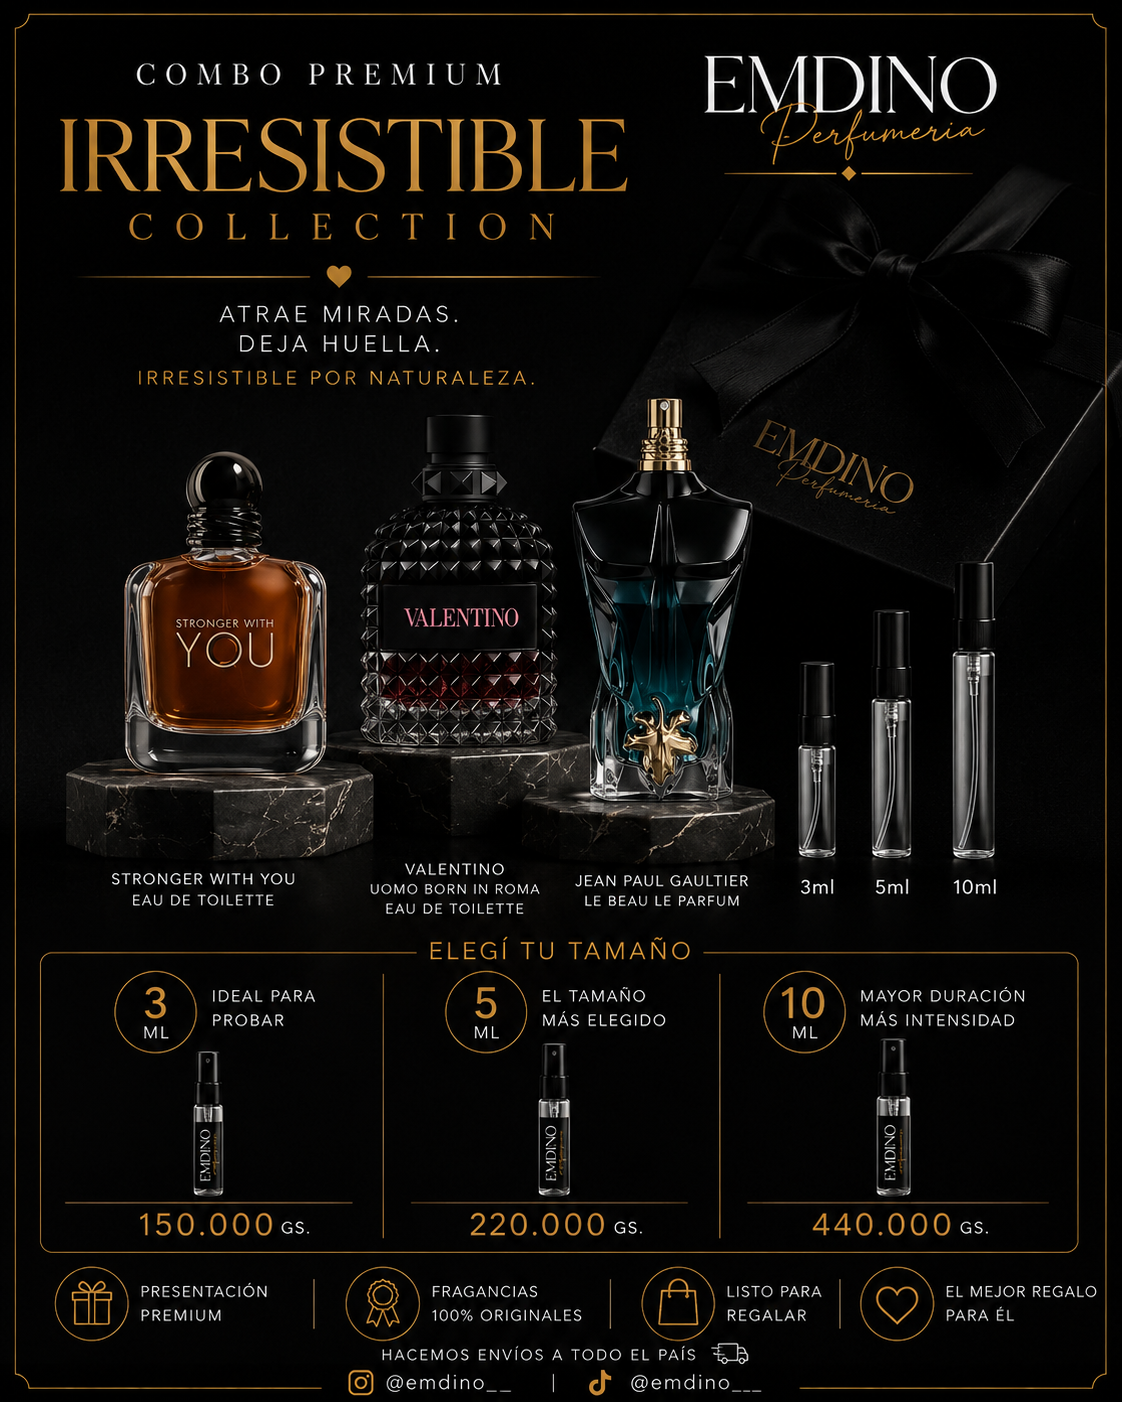
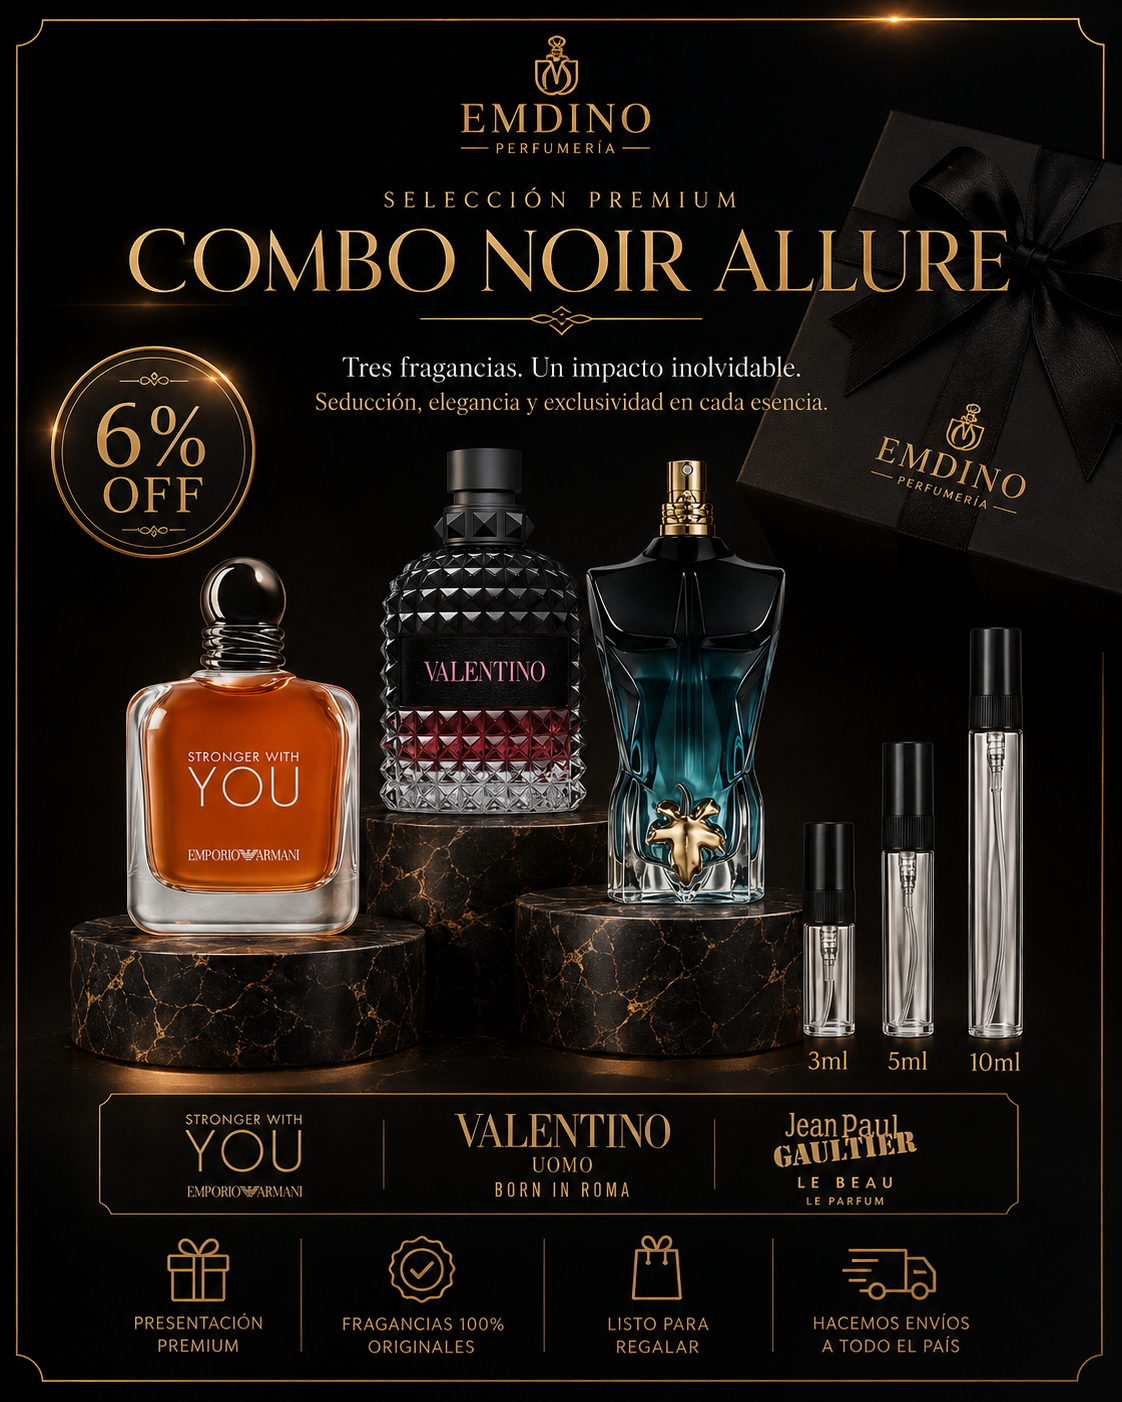
feat(combos): rebrand v3 de los 4 combos que conservaban nombre original
- Fresh        -> Azure Privé        (+ se agrega Asad Zanzibar: 3 fragancias)
- Línea Le Beau -> Paradise Noir
- Nicho        -> Collection Privée
- Irresistible -> Noir Allure

Slugs sin cambio. Nuevas imagenes premium (PNG), nombres y taglines de los
flyers. sql/0011 actualiza name/tagline en DB y agrega Asad Zanzibar a los
items del combo-fresh. Fallback combos.js sincronizado.

Nota: el precio de Azure Privé quedo con los valores de Fresh (era 2
fragancias, ahora 3) — pendiente confirmar precio nuevo con el cliente.

diff --git a/src/data/combos.js b/src/data/combos.js
@@ -89,11 +89,11 @@ export const EMDINO_COMBOS_FALLBACK = [
   },
   {
     id: "combo-fresh",
-    nombre: "Fresh",
-    tagline: "Frescura para todo el día",
-    items: ["ysl-y-edp", "rasasi-hawas-ice"],
-    incluye: ["YSL Y EDP", "Hawas Ice"],
-    presentacion: "2 fragancias · elegí tu tamaño",
+    nombre: "Azure Privé",
+    tagline: "Frescura que impacta, elegancia que perdura",
+    items: ["ysl-y-edp", "lattafa-asad-zanzibar", "rasasi-hawas-ice"],
+    incluye: ["YSL Y EDP", "Asad Zanzibar", "Hawas Ice"],
+    presentacion: "3 fragancias · elegí tu tamaño",
     precios: { "3ml": 102000, "5ml": 147000, "10ml": 257000 },
     preciosNormal: { "3ml": 108000, "5ml": 155000, "10ml": 270000 },
     precioNormal: 155000,
@@ -102,8 +102,8 @@ export const EMDINO_COMBOS_FALLBACK = [
   },
   {
     id: "combo-irresistible",
-    nombre: "Irresistible",
-    tagline: "Los que dejan huella",
+    nombre: "Noir Allure",
+    tagline: "Seducción, elegancia y exclusividad en cada esencia",
     items: ["armani-swy-intensely", "valentino-bir-intense", "jpg-le-beau-le-parfum"],
     incluye: ["SWY Intensely", "Valentino BIR Intense", "JPG Le Beau Le Parfum"],
     presentacion: "3 fragancias · elegí tu tamaño",
@@ -128,8 +128,8 @@ export const EMDINO_COMBOS_FALLBACK = [
   },
   {
     id: "combo-linea-le-beau",
-    nombre: "Línea Le Beau",
-    tagline: "Toda la familia Le Beau",
+    nombre: "Paradise Noir",
+    tagline: "Frescura tropical, elegancia irresistible",
     items: ["jpg-le-beau-edt", "jpg-le-beau-le-parfum", "jpg-le-beau-paradise-garden"],
     incluye: ["Le Beau EDT", "Le Beau Le Parfum", "Le Beau Paradise Garden"],
     presentacion: "3 fragancias · elegí tu tamaño",
@@ -155,8 +155,8 @@ export const EMDINO_COMBOS_FALLBACK = [
   },
   {
     id: "combo-nicho",
-    nombre: "Nicho",
-    tagline: "Perfumería de autor",
+    nombre: "Collection Privée",
+    tagline: "Exclusividad en tres fragancias que dejan huella",
     items: ["xerjoff-erba-pura", "pdm-layton", "xerjoff-naxos"],
     incluye: ["Erba Pura", "Layton", "Naxos"],
     presentacion: "3 fragancias · elegí tu tamaño",
